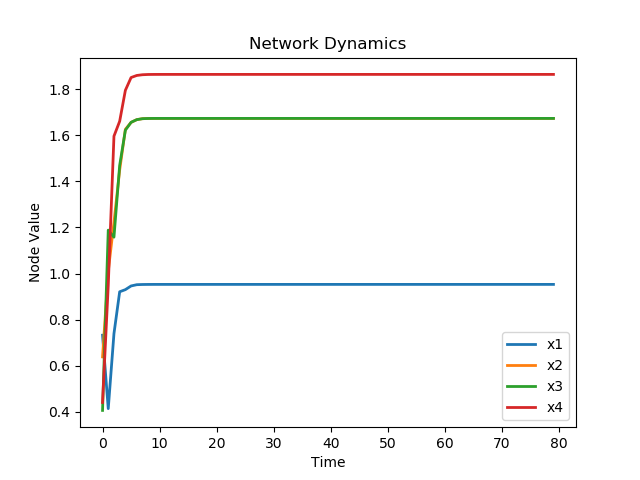
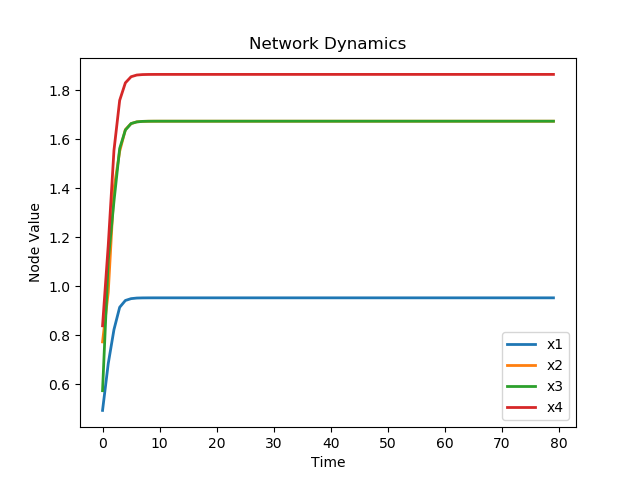
integrated the detect_sync function into the main class

diff --git a/code/specializer.py b/code/specializer.py
@@ -523,3 +523,43 @@ class DirectedGraph:
         eigs = la.eig(Df)
         # find the eigen value with largest modulus, which is the spectral radius
         return np.max(np.abs(eigs[0]))
+
+    def detect_sync(self, iters=80, sync_tol=1e-2, otol=1e-1):
+        """
+        Determines which nodes in a network synchronize.
+
+        Parameters:
+            G (DirectedGraph): The DirectedGraph of interest
+            iter_matrix (ndarray): mxn array containing the values
+                                of m dynamic iterations of the n nodes of G
+            iters (int): number of iterations to produce iter_matrix (for use when iter_matrix is not explicitly passed in)
+            sync_tol (float): tolerance for synchronization
+            otol (float): tolerance for stability
+
+        Returns:
+            sync_communities (tuple): of the form ((community), bool), where the bool represents if the community is stable
+        """
+
+        iter_matrix = self.iterate(iters, np.random.random(self.n)*10)
+        # number of nodes in network
+        n = iter_matrix.shape[1]
+
+        # only check the last few rows for convergence
+        A = iter_matrix[-5:, :]
+
+        # tracks which nodes/communities have synchronized
+        sync_communities = []
+        sync_nodes = []
+
+        for node in range(n):
+            if node in sync_nodes:
+                break
+            else:
+                # sync_ind is a list of nodes synchronized with 'node'
+                sync_ind = list(np.where(np.all(np.isclose((A.T - A[:, node]).T, 0, atol=sync_tol), axis=0))[0])
+                # track which nodes have already synchronized so we don't double check
+                sync_nodes.extend(sync_ind)
+                # track communities of synchronization
+                sync_communities.append((tuple(map(lambda x: self.labeler[x], sync_ind)), np.all(np.isclose(A[:, node] - A[-1, node], 0, atol=otol))))
+
+        return sync_communities

diff --git a/ds.py b/ds.py
@@ -13,14 +13,10 @@ def detect_sync(G, iter_matrix=False, iters=80, sync_tol=1e-2, otol=1e-1):
 
     Parameters:
         G (DirectedGraph): The DirectedGraph of interest
-
         iter_matrix (ndarray): mxn array containing the values
-            of m dynamic iterations of the n nodes of G
-
+                            of m dynamic iterations of the n nodes of G
         iters (int): number of iterations to produce iter_matrix (for use when iter_matrix is not explicitly passed in)
-
         sync_tol (float): tolerance for synchronization
-
         otol (float): tolerance for stability
 
     Returns:

diff --git a/code/workbook3.py b/code/workbook3.py
@@ -36,3 +36,4 @@ if __name__ == "__main__":
     print(G.A)
     print(G.labeler)
     print(G.spectral_radius())
+    print(G.detect_sync())
